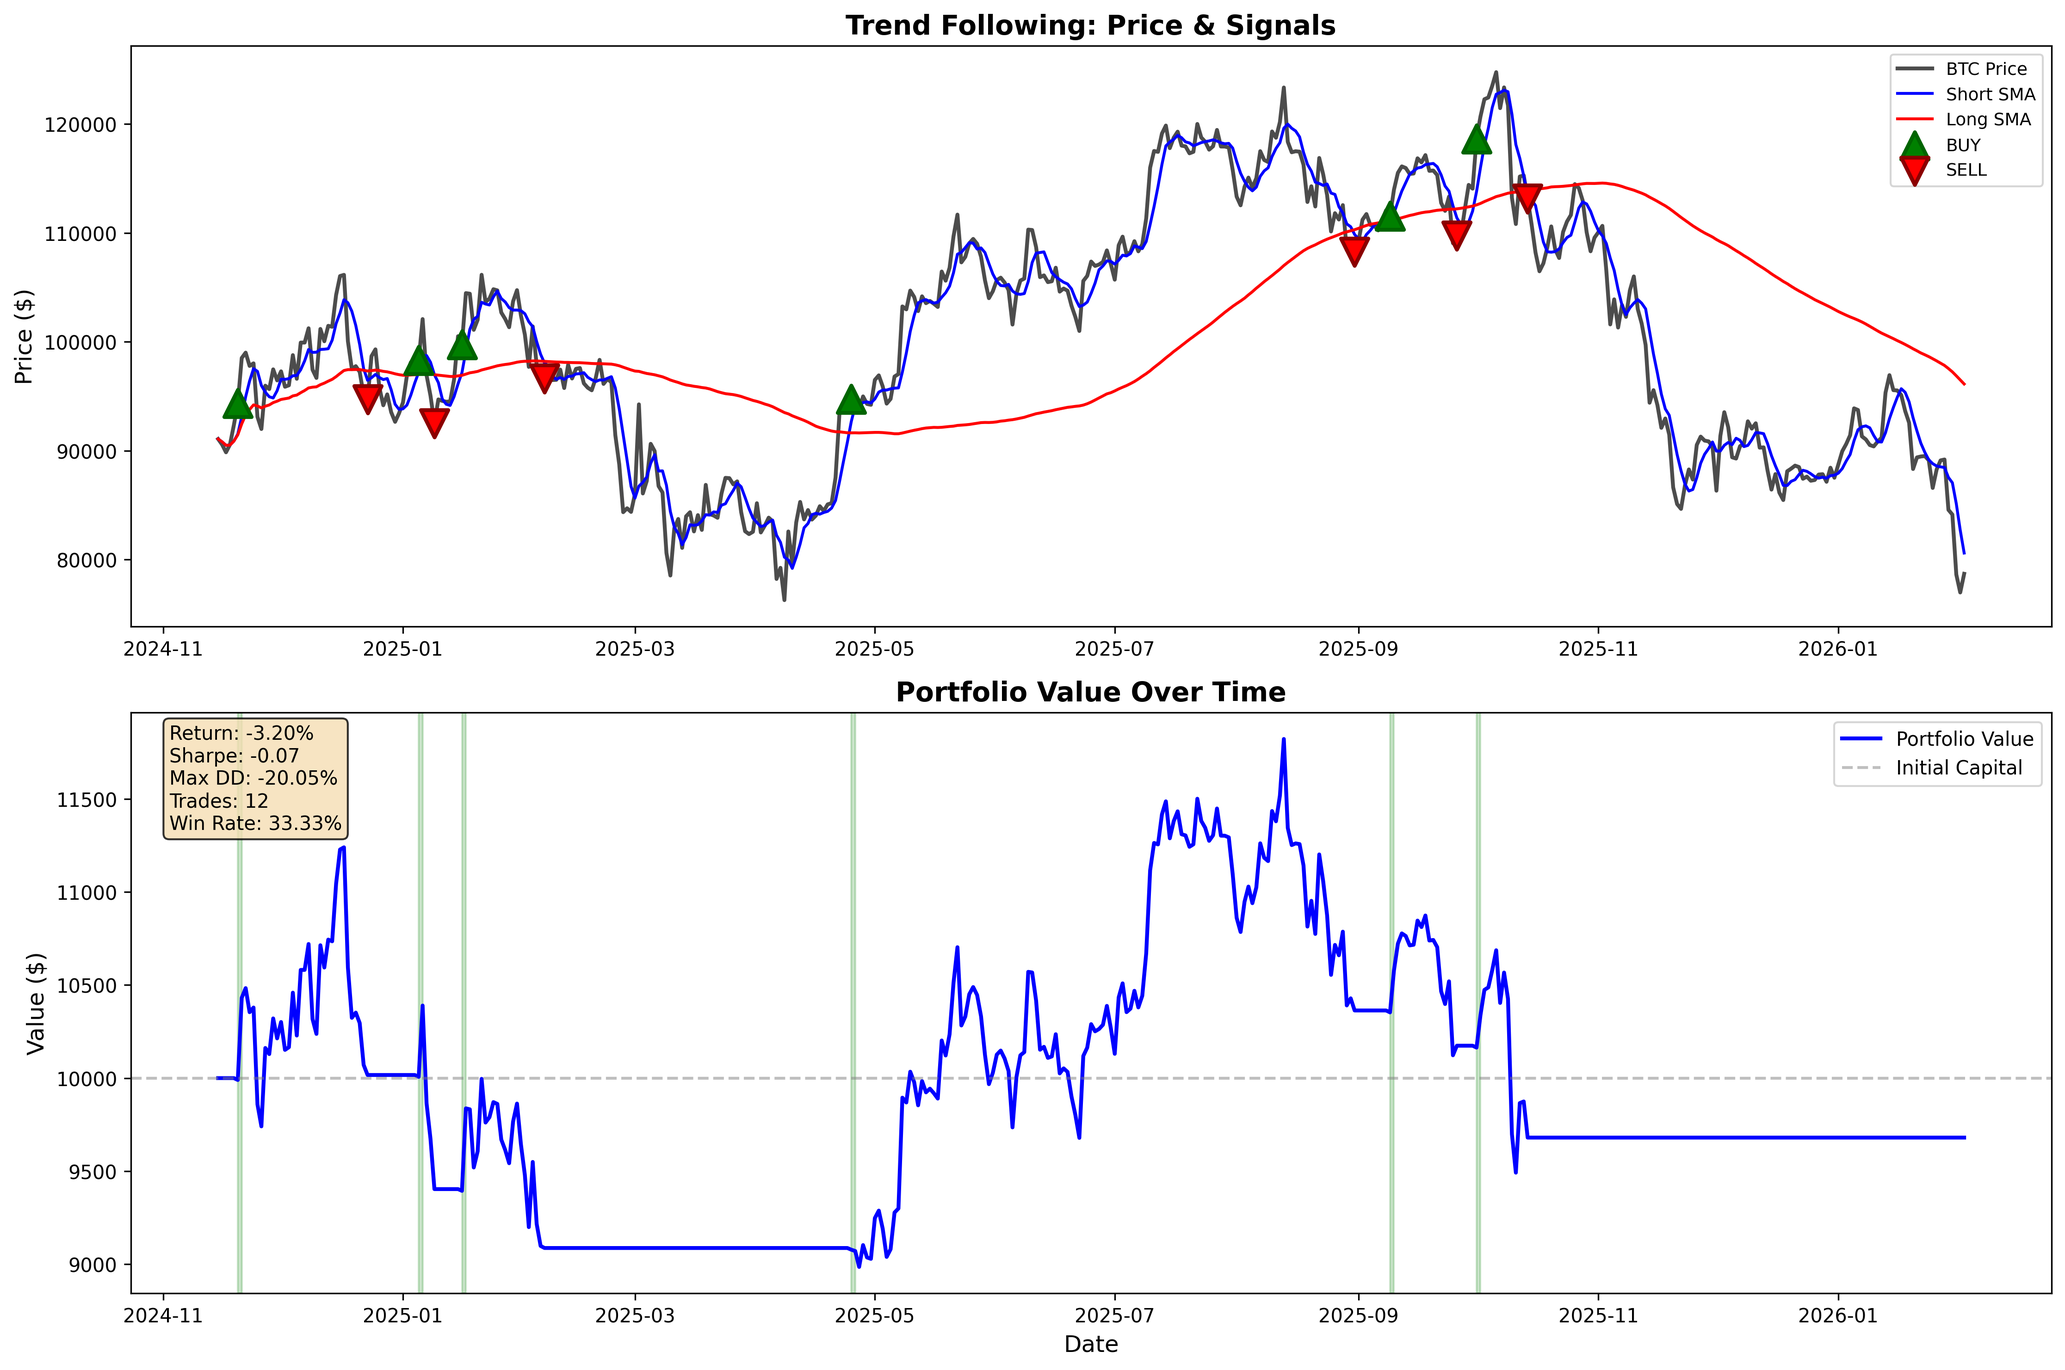
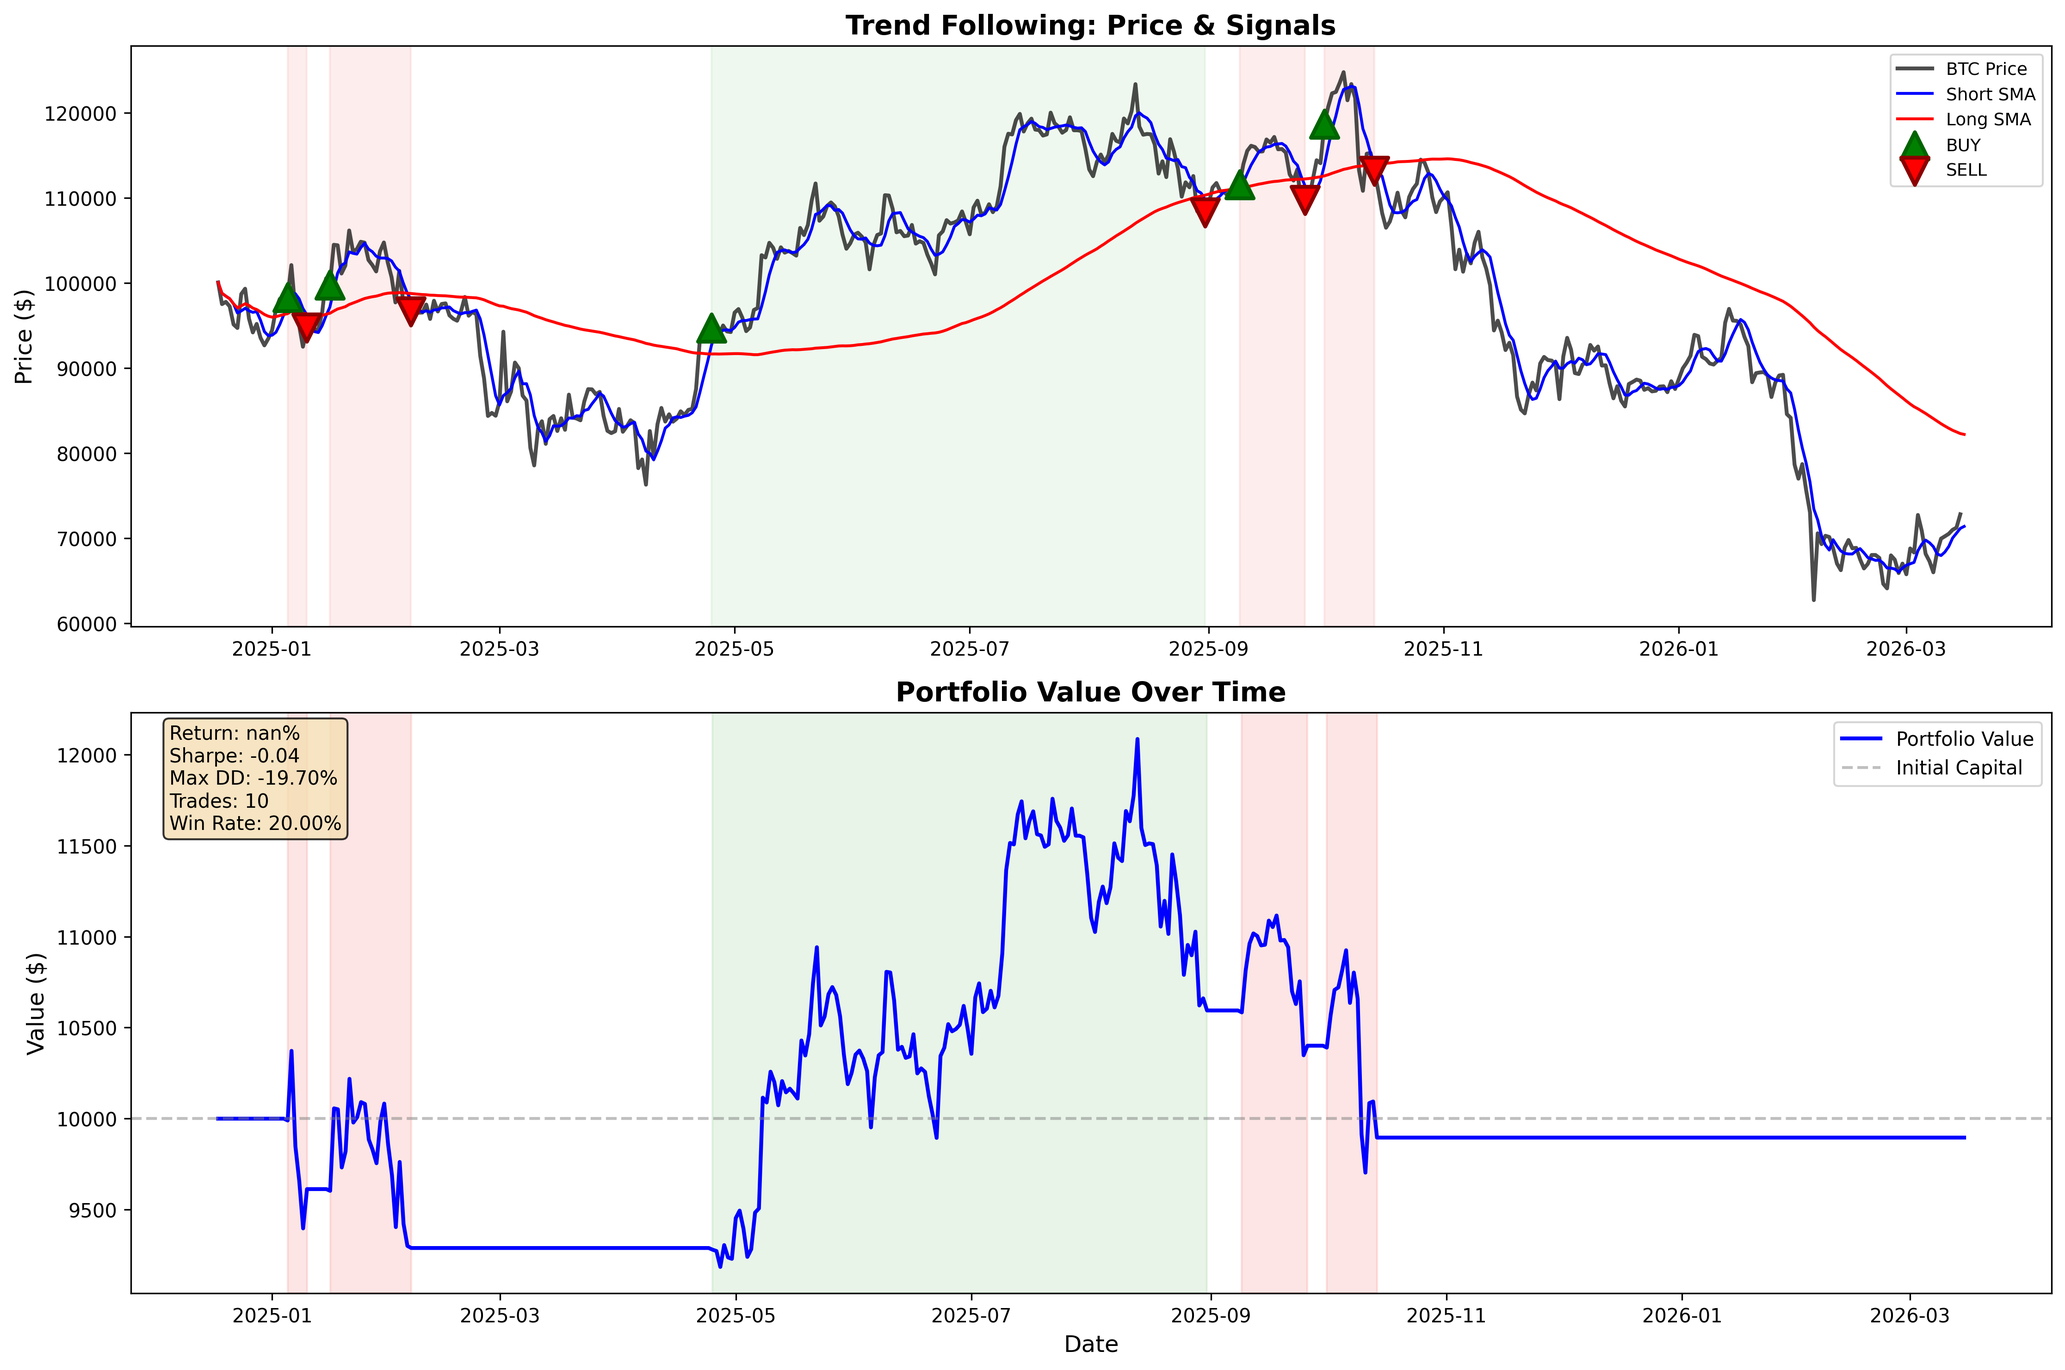
link to line bot

diff --git a/AlgorithmsWithLSTM.py b/AlgorithmsWithLSTM.py
@@ -320,24 +320,54 @@ class AlgorithmsWithLSTM:
                                           linestyle='--', alpha=0.3, linewidth=0.8,
                                           label=label)
         
-        # Buy/Sell signals
+        # Buy/Sell signals พร้อมไฮไลท์กำไร/ขาดทุน
         if not trades.empty:
-            buy_trades = trades[trades['action'] == 'BUY']
-            sell_trades = trades[trades['action'] == 'SELL']
+            buy_trades = trades[trades['action'] == 'BUY'].reset_index(drop=True)
+            sell_trades = trades[trades['action'] == 'SELL'].reset_index(drop=True)
             
-            if len(buy_trades) > 0:
-                axes[0].scatter(buy_trades['date'], 
-                              [portfolio.loc[portfolio.index == d, 'price'].iloc[0] 
-                               for d in buy_trades['date']], 
-                              marker='^', color='green', s=200, 
-                              label='BUY', zorder=5, edgecolors='darkgreen', linewidths=2)
+            # จับคู่ BUY→SELL เพื่อคำนวณกำไร/ขาดทุน
+            num_pairs = min(len(buy_trades), len(sell_trades))
             
-            if len(sell_trades) > 0:
-                axes[0].scatter(sell_trades['date'], 
-                              [portfolio.loc[portfolio.index == d, 'price'].iloc[0] 
-                               for d in sell_trades['date']], 
-                              marker='v', color='red', s=200, 
-                              label='SELL', zorder=5, edgecolors='darkred', linewidths=2)
+            buy_shown = False
+            sell_shown = False
+            
+            for i in range(num_pairs):
+                buy_val = buy_trades.loc[i, 'value']
+                sell_val = sell_trades.loc[i, 'cash_after']
+                is_profit = sell_val > buy_val
+                
+                # พื้นหลัง: เขียวอ่อน = กำไร, แดงอ่อน = ขาดทุน
+                bg_color = '#66BB6A' if is_profit else '#EF5350'
+                
+                buy_date = buy_trades.loc[i, 'date']
+                sell_date = sell_trades.loc[i, 'date']
+                buy_price = portfolio.loc[portfolio.index == buy_date, 'price'].iloc[0]
+                sell_price = portfolio.loc[portfolio.index == sell_date, 'price'].iloc[0]
+                
+                # ระบายสีพื้นหลังระหว่าง buy→sell
+                axes[0].axvspan(buy_date, sell_date, alpha=0.10, color=bg_color)
+                
+                # BUY marker (เขียวเสมอ)
+                label_buy = 'BUY' if not buy_shown else None
+                buy_shown = True
+                axes[0].scatter(buy_date, buy_price, marker='^', color='green', s=200,
+                              label=label_buy, zorder=5, edgecolors='darkgreen', linewidths=2)
+                
+                # SELL marker (แดงเสมอ)
+                label_sell = 'SELL' if not sell_shown else None
+                sell_shown = True
+                axes[0].scatter(sell_date, sell_price, marker='v', color='red', s=200,
+                              label=label_sell, zorder=5, edgecolors='darkred', linewidths=2)
+            
+            # BUY ที่ยังไม่มี SELL คู่ (ถือค้างอยู่)
+            if len(buy_trades) > num_pairs:
+                for i in range(num_pairs, len(buy_trades)):
+                    bd = buy_trades.loc[i, 'date']
+                    bp = portfolio.loc[portfolio.index == bd, 'price'].iloc[0]
+                    label = 'BUY' if not buy_shown else None
+                    buy_shown = True
+                    axes[0].scatter(bd, bp, marker='^', color='green', s=200,
+                                  label=label, zorder=5, edgecolors='darkgreen', linewidths=2)
         
         axes[0].set_title(f'{strategy_name}: Price & Signals (Test Set with LSTM Prediction)', 
                          fontsize=14, fontweight='bold')
@@ -351,14 +381,23 @@ class AlgorithmsWithLSTM:
         axes[1].axhline(y=10000, color='gray', linestyle='--', 
                        alpha=0.5, label='Initial Capital')
         
-        # ระบายสีช่วงที่ถือ BTC
-        btc_periods = portfolio[portfolio['position'] == 'BTC']
-        if len(btc_periods) > 0:
-            for i in range(len(btc_periods)):
-                if i == 0 or (btc_periods.index[i] - btc_periods.index[i-1]).days > 1:
-                    axes[1].axvspan(btc_periods.index[i], 
-                                   btc_periods.index[min(i+1, len(btc_periods)-1)], 
-                                   alpha=0.2, color='green')
+        # ระบายสีช่วงที่ถือ BTC ตามกำไร/ขาดทุน
+        if not trades.empty:
+            buy_tr = trades[trades['action'] == 'BUY'].reset_index(drop=True)
+            sell_tr = trades[trades['action'] == 'SELL'].reset_index(drop=True)
+            n_pairs = min(len(buy_tr), len(sell_tr))
+            
+            for i in range(n_pairs):
+                b_val = buy_tr.loc[i, 'value']
+                s_val = sell_tr.loc[i, 'cash_after']
+                c = '#66BB6A' if s_val > b_val else '#EF5350'
+                axes[1].axvspan(buy_tr.loc[i, 'date'], sell_tr.loc[i, 'date'],
+                               alpha=0.15, color=c)
+            
+            # ช่วงที่ยังถือค้าง
+            if len(buy_tr) > n_pairs:
+                axes[1].axvspan(buy_tr.loc[n_pairs, 'date'], portfolio.index[-1],
+                               alpha=0.15, color='#FFA726')
         
         axes[1].set_title('Portfolio Value Over Time (Test Set)', fontsize=14, fontweight='bold')
         axes[1].set_ylabel('Value ($)', fontsize=12)

diff --git a/Final_test.py b/Final_test.py
@@ -101,24 +101,54 @@ class FinalTester:
                                           linestyle='--', alpha=0.5, linewidth=0.8,
                                           label=label)
         
-        # แสดง Buy/Sell signals
+        # แสดง Buy/Sell signals พร้อมไฮไลท์กำไร/ขาดทุน
         if not trades.empty:
-            buy_trades = trades[trades['action'] == 'BUY']
-            sell_trades = trades[trades['action'] == 'SELL']
+            buy_trades = trades[trades['action'] == 'BUY'].reset_index(drop=True)
+            sell_trades = trades[trades['action'] == 'SELL'].reset_index(drop=True)
             
-            if len(buy_trades) > 0:
-                axes[0].scatter(buy_trades['date'], 
-                              [portfolio.loc[portfolio.index == d, 'price'].iloc[0] 
-                               for d in buy_trades['date']], 
-                              marker='^', color='green', s=200, 
-                              label='BUY', zorder=5, edgecolors='darkgreen', linewidths=2)
+            # จับคู่ BUY→SELL เพื่อคำนวณกำไร/ขาดทุน
+            num_pairs = min(len(buy_trades), len(sell_trades))
             
-            if len(sell_trades) > 0:
-                axes[0].scatter(sell_trades['date'], 
-                              [portfolio.loc[portfolio.index == d, 'price'].iloc[0] 
-                               for d in sell_trades['date']], 
-                              marker='v', color='red', s=200, 
-                              label='SELL', zorder=5, edgecolors='darkred', linewidths=2)
+            buy_shown = False
+            sell_shown = False
+            
+            for i in range(num_pairs):
+                buy_val = buy_trades.loc[i, 'value']
+                sell_val = sell_trades.loc[i, 'cash_after']
+                is_profit = sell_val > buy_val
+                
+                # พื้นหลัง: เขียวอ่อน = กำไร, แดงอ่อน = ขาดทุน
+                bg_color = '#66BB6A' if is_profit else '#EF5350'
+                
+                buy_date = buy_trades.loc[i, 'date']
+                sell_date = sell_trades.loc[i, 'date']
+                buy_price = portfolio.loc[portfolio.index == buy_date, 'price'].iloc[0]
+                sell_price = portfolio.loc[portfolio.index == sell_date, 'price'].iloc[0]
+                
+                # ระบายสีพื้นหลังระหว่าง buy→sell
+                axes[0].axvspan(buy_date, sell_date, alpha=0.10, color=bg_color)
+                
+                # BUY marker (เขียวเสมอ)
+                label_buy = 'BUY' if not buy_shown else None
+                buy_shown = True
+                axes[0].scatter(buy_date, buy_price, marker='^', color='green', s=200,
+                              label=label_buy, zorder=5, edgecolors='darkgreen', linewidths=2)
+                
+                # SELL marker (แดงเสมอ)
+                label_sell = 'SELL' if not sell_shown else None
+                sell_shown = True
+                axes[0].scatter(sell_date, sell_price, marker='v', color='red', s=200,
+                              label=label_sell, zorder=5, edgecolors='darkred', linewidths=2)
+            
+            # BUY ที่ยังไม่มี SELL คู่ (ถือค้างอยู่)
+            if len(buy_trades) > num_pairs:
+                for i in range(num_pairs, len(buy_trades)):
+                    bd = buy_trades.loc[i, 'date']
+                    bp = portfolio.loc[portfolio.index == bd, 'price'].iloc[0]
+                    label = 'BUY' if not buy_shown else None
+                    buy_shown = True
+                    axes[0].scatter(bd, bp, marker='^', color='green', s=200,
+                                  label=label, zorder=5, edgecolors='darkgreen', linewidths=2)
         
         axes[0].set_title(f'{strategy_name}: Price & Signals', fontsize=14, fontweight='bold')
         axes[0].set_ylabel('Price ($)', fontsize=12)
@@ -131,14 +161,23 @@ class FinalTester:
         axes[1].axhline(y=10000, color='gray', linestyle='--', 
                        alpha=0.5, label='Initial Capital')
         
-        # ระบายสีช่วงที่ถือ BTC
-        btc_periods = portfolio[portfolio['position'] == 'BTC']
-        if len(btc_periods) > 0:
-            for i in range(len(btc_periods)):
-                if i == 0 or (btc_periods.index[i] - btc_periods.index[i-1]).days > 1:
-                    axes[1].axvspan(btc_periods.index[i], 
-                                   btc_periods.index[min(i+1, len(btc_periods)-1)], 
-                                   alpha=0.2, color='green')
+        # ระบายสีช่วงที่ถือ BTC ตามกำไร/ขาดทุน
+        if not trades.empty:
+            buy_tr = trades[trades['action'] == 'BUY'].reset_index(drop=True)
+            sell_tr = trades[trades['action'] == 'SELL'].reset_index(drop=True)
+            n_pairs = min(len(buy_tr), len(sell_tr))
+            
+            for i in range(n_pairs):
+                b_val = buy_tr.loc[i, 'value']
+                s_val = sell_tr.loc[i, 'cash_after']
+                c = '#66BB6A' if s_val > b_val else '#EF5350'
+                axes[1].axvspan(buy_tr.loc[i, 'date'], sell_tr.loc[i, 'date'],
+                               alpha=0.15, color=c)
+            
+            # ช่วงที่ยังถือค้าง
+            if len(buy_tr) > n_pairs:
+                axes[1].axvspan(buy_tr.loc[n_pairs, 'date'], portfolio.index[-1],
+                               alpha=0.15, color='#FFA726')
         
         axes[1].set_title('Portfolio Value Over Time', fontsize=14, fontweight='bold')
         axes[1].set_ylabel('Value ($)', fontsize=12)

diff --git a/bot/app.py b/bot/app.py
@@ -1,17 +1,38 @@
 from __future__ import annotations
 
-from fastapi import FastAPI, HTTPException, Query
+import os
+from dotenv import load_dotenv
+from fastapi import FastAPI, HTTPException, Query, Request, Header
 from pydantic import BaseModel
+from linebot.v3 import WebhookHandler
+from linebot.v3.exceptions import InvalidSignatureError
+from linebot.v3.messaging import (
+    Configuration,
+    ApiClient,
+    MessagingApi,
+    ReplyMessageRequest,
+    TextMessage,
+)
+from linebot.v3.webhooks import MessageEvent, TextMessageContent
 
 from bot.services.model_service import ModelService
 from bot.services.strategy_service import StrategyService
 
+# Load environment variables
+load_dotenv()
 
 app = FastAPI(title="BTC Trading Bot API", version="1.0.0")
 DEFAULT_START_DATE = "2020-01-01"
 
 model_service = ModelService()
 strategy_service = StrategyService()
+
+# LINE Bot Configuration
+LINE_CHANNEL_SECRET = os.getenv("LINE_CHANNEL_SECRET", "1b0c561d8503a338ba218b62acbb3645")
+LINE_CHANNEL_ACCESS_TOKEN = os.getenv("LINE_CHANNEL_ACCESS_TOKEN", "")
+
+configuration = Configuration(access_token=LINE_CHANNEL_ACCESS_TOKEN)
+handler = WebhookHandler(LINE_CHANNEL_SECRET)
 
 
 class ChatRequest(BaseModel):
@@ -162,3 +183,47 @@ def chat(req: ChatRequest) -> dict:
 		raise
 	except Exception as exc:
 		raise HTTPException(status_code=500, detail=str(exc)) from exc
+
+
+def _process_chat_message(text: str, use_lstm_filter: bool = False) -> str:
+	"""Process chat message and return answer text."""
+	try:
+		req = ChatRequest(message=text, use_lstm_filter=use_lstm_filter)
+		result = chat(req)
+		return result["answer"]
+	except Exception as exc:
+		return f"เกิดข้อผิดพลาด: {str(exc)}"
+
+
+@app.post("/webhook")
+async def line_webhook(request: Request, x_line_signature: str = Header(None)):
+	"""LINE Bot webhook endpoint."""
+	body = await request.body()
+	body_str = body.decode("utf-8")
+
+	try:
+		handler.handle(body_str, x_line_signature)
+	except InvalidSignatureError:
+		raise HTTPException(status_code=400, detail="Invalid signature")
+
+	return "OK"
+
+
+@handler.add(MessageEvent, message=TextMessageContent)
+def handle_text_message(event: MessageEvent):
+	"""Handle text messages from LINE."""
+	if not LINE_CHANNEL_ACCESS_TOKEN:
+		return
+
+	user_message = event.message.text
+	reply_text = _process_chat_message(user_message, use_lstm_filter=False)
+
+	with ApiClient(configuration) as api_client:
+		line_bot_api = MessagingApi(api_client)
+		line_bot_api.reply_message_with_http_info(
+			ReplyMessageRequest(
+				reply_token=event.reply_token,
+				messages=[TextMessage(text=reply_text)]
+			)
+		)
+

diff --git a/README.md b/README.md
@@ -1,0 +1,77 @@
+# BTC Trading Bot API
+
+API สำหรับ Trading Bot ที่ใช้ LSTM และกลยุทธ์ต่างๆ ในการซื้อขาย Bitcoin
+
+## Features
+
+- 🤖 LINE Bot Integration
+- 📊 3 Trading Strategies: Trend Following, Mean Reversion, Grid Trading
+- 🧠 LSTM Model สำหรับพยากรณ์ราคา
+- 📈 Backtesting Engine
+- 🔄 Real-time BTC Price
+
+## API Endpoints
+
+- `GET /health` - Health check
+- `GET /predict` - พยากรณ์ราคา BTC วันถัดไป
+- `GET /signal?strategy=trend&use_lstm_filter=false` - สัญญาณซื้อขาย
+- `GET /compare?use_lstm_filter=false` - เปรียบเทียบกลยุทธ์ทั้งหมด
+- `POST /chat` - Chat API
+- `POST /webhook` - LINE Bot webhook
+
+## Deployment
+
+### Environment Variables
+
+ตั้งค่าใน Render Dashboard:
+
+```
+LINE_CHANNEL_SECRET=1b0c561d8503a338ba218b62acbb3645
+LINE_CHANNEL_ACCESS_TOKEN=<your_token_here>
+```
+
+### Deploy to Render
+
+1. Push code ไป GitHub
+2. เชื่อมต่อ Render กับ GitHub repo
+3. Render จะอ่าน `render.yaml` และ deploy อัตโนมัติ
+4. ตั้งค่า Environment Variables ใน Render Dashboard
+5. ตั้งค่า LINE Webhook URL: `https://your-app.onrender.com/webhook`
+
+## Local Development
+
+```bash
+# Install dependencies
+pip install -r requirements.txt
+
+# Create .env file
+cp .env.example .env
+# แก้ไข .env ใส่ LINE_CHANNEL_ACCESS_TOKEN
+
+# Run server
+uvicorn bot.app:app --reload
+```
+
+## LINE Bot Commands
+
+- `ราคา` หรือ `price` - ดูราคา BTC ปัจจุบัน
+- `predict` หรือ `พยากรณ์` - พยากรณ์ราคาวันถัดไป
+- `compare` หรือ `เปรียบเทียบ` - เปรียบเทียบกลยุทธ์ทั้งหมด
+- `trend` - สัญญาณ Trend Following
+- `mean` - สัญญาณ Mean Reversion
+- `grid` - สัญญาณ Grid Trading
+
+## Model Files
+
+Model files ที่จำเป็น (ต้อง commit ไป git):
+- `Model/lstm_2layer_btc.keras` (5.4 MB)
+- `Model/scaler_X.pkl`
+- `Model/scaler_y.pkl`
+
+## Tech Stack
+
+- FastAPI
+- TensorFlow/Keras
+- LINE Bot SDK
+- yfinance
+- pandas, numpy, scikit-learn
